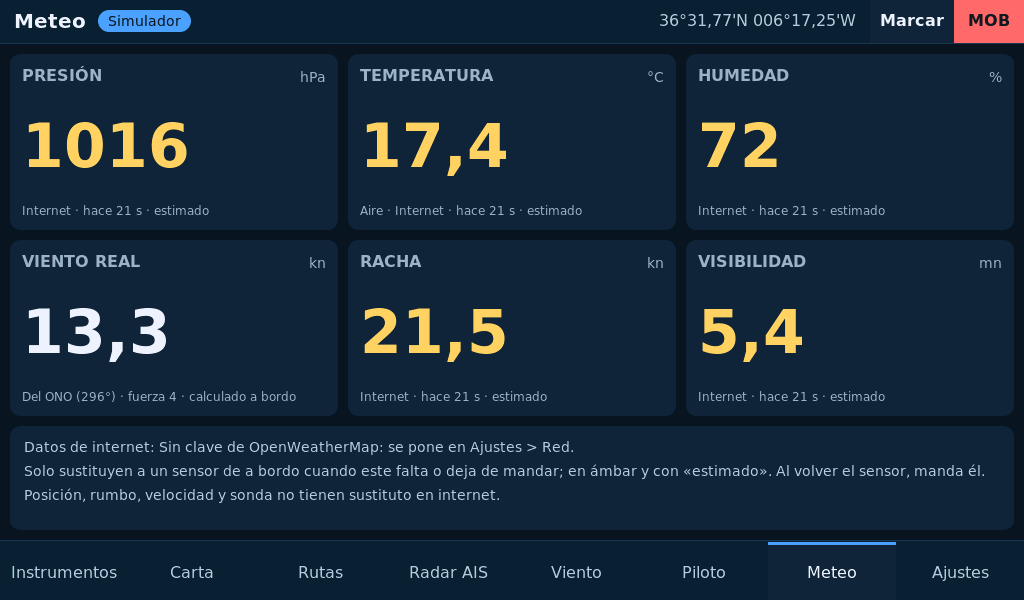
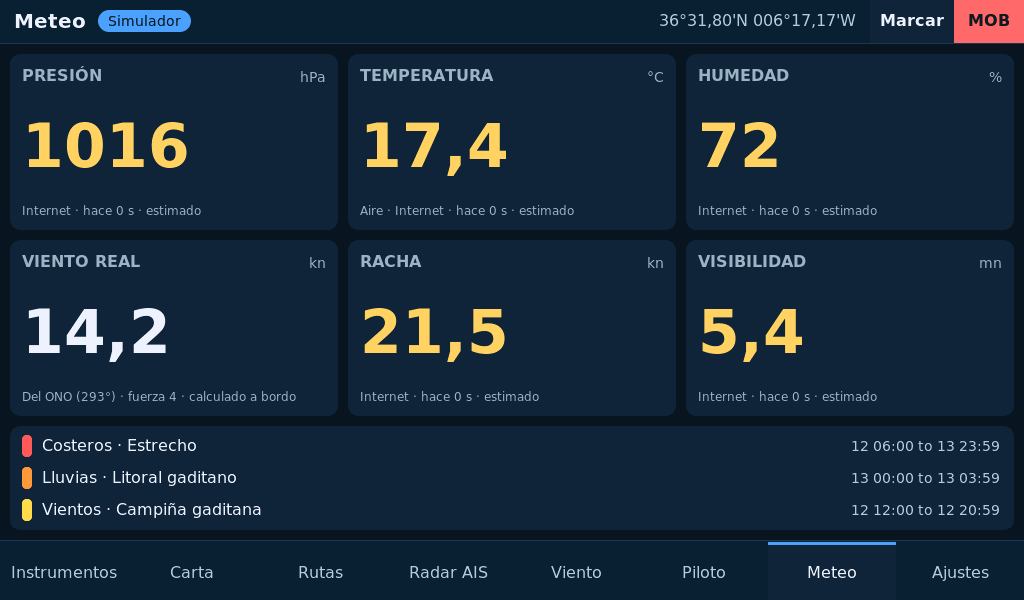
Documentación: avisos meteorológicos en manuales, guías, instalación, README e imágenes
Claude-Session: https://claude.ai/code/session_017B8KvKkzy64dRCMhaiQqdM

diff --git a/docs/USER_MANUAL_EN.md b/docs/USER_MANUAL_EN.md
@@ -191,6 +191,24 @@ Anything coming **from the internet** is shown in **amber** and labelled «estim
 station or model, not from your boat. The note at the bottom says whether the OpenWeatherMap request works and where
 the observation is from.
 
+### Weather warnings
+
+With official warnings in force for your area, the note at the bottom becomes their list (up to three, most severe
+first, with the level colour and the time they are in force). Tap one to see the whole warning.
+
+- **AEMET** (Spain): put your free AEMET OpenData key in Ajustes > Red. You get the warnings for the zone the boat is in
+  and those within 30 km.
+- **Meteoalarm** (rest of Europe), with no AEMET key: write the country and the names of your zones as Meteoalarm calls
+  them: «spain: Estrecho, Cádiz».
+
+The plotter checks them every 15 minutes.
+
+![Warning](img/aviso_meteo.png)
+
+When a new one comes in at the chosen level or above, the **WEATHER WARNING** window opens with a band in the level colour
+(yellow, orange or red): phenomenon, area, time in force, probability and the warning text. **ALL WARNINGS** goes to the
+Meteo tab; **CLOSE** closes it. Each warning is shown once.
+
 ## 9. Ajustes (Settings)
 
 ![Settings](img/ajustes.png)
@@ -212,7 +230,10 @@ and waypoints.
 ![Network](img/red.png)
 
 On the **Red** (Network) screen: the Wi-Fi and its password, the server type (off, NMEA 0183, gpsd or Signal K), its
-address and port, the UDP port, the OpenWeatherMap key and the tracker PIN. **Guardar y conectar** applies the changes.
+address and port, the UDP port, the OpenWeatherMap key, the tracker PIN and the weather warnings: the AEMET OpenData
+key, or the Meteoalarm country and zones, and the button for the level from which the window opens (**Desde amarillo**
+from yellow, **Desde naranja** from orange, **Solo rojo** red only, **Sin ventana** no window). **Guardar y conectar**
+applies the changes.
 
 ## 10. Alerts
 
@@ -228,6 +249,7 @@ An alert opens a window over any screen. Alert texts are in English, as in the A
 | **ANCHOR WATCH · NO GPS FIX** | Anchored and 1 min without a position | Same |
 | **SIGNAL K ALARM / EMERGENCY** | Notification from the Signal K server | Closes by itself when the server lowers its level |
 | **RS485 COMPARTIDO** (shared RS485) | The pilot output uses the port data is coming in on | Apagar salida (turn output off) · Seguir así (keep going) |
+| **WEATHER WARNING** | A new official weather warning for your area (section 8) | ALL WARNINGS · CLOSE. On-board alerts take its place |
 
 Collision and anchor alerts close by themselves when the danger is over.
 
@@ -257,7 +279,7 @@ The internet only stands in for weather: true wind, gust, pressure, temperature,
 - Alert sound.
 - Chart download over Wi-Fi and a fallback coastline.
 - Renaming waypoints and saving several named routes.
-- Tides, weather warnings, navigational warnings and forecast layers.
+- Tides, navigational warnings and forecast layers; weather warnings for the zones of the route and their map.
 - Autopilot controls.
 - English interface.
 

diff --git a/docs/INSTALACION.md b/docs/INSTALACION.md
@@ -136,6 +136,10 @@ Ajustes > **Red: WiFi, TCP y UDP**. Escribe la red y su clave, elige el servidor
 
 Solo hay **un** servidor TCP a la vez. El UDP funciona a la vez que el TCP.
 
+**Avisos meteorológicos**: en la cuarta fila, la clave de AEMET OpenData (gratuita, se pide en opendata.aemet.es con un
+correo) o, fuera de España, «país: zonas» de Meteoalarm; el botón de la derecha elige desde qué nivel salta la ventana.
+Necesitan WiFi con salida a internet; AEMET, además, la posición del barco.
+
 **El móvil como fuente**: activa el punto de acceso del móvil, enciende el servidor NMEA en la app APRS LoRa+ y, en el
 plotter, pon esa WiFi, «TCP: NMEA 0183», el **servidor vacío** y el puerto 10110. Con el servidor vacío el plotter se
 conecta al equipo que da la WiFi.
@@ -210,13 +214,14 @@ Todo se guarda y se recupera al encender, también un fondeo en vigilancia.
 | No conecta a la WiFi | Nombre y clave exactos (distingue mayúsculas). El estado sale arriba en la pantalla de red |
 | «El tracker no acepta el PIN» | Pon en Ajustes > Red el PIN de control del tracker. Si lo has cambiado, apaga y enciende el Bluetooth |
 | El tiempo de internet no llega | Clave de OpenWeatherMap, WiFi con salida a internet y posición válida. La pestaña Meteo dice el motivo |
+| No salen avisos meteorológicos | Clave de AEMET entera (empieza por «eyJ») y confirmada desde el correo de AEMET, o «país: zonas» bien escrito; con posición. Sin avisos en vigor para tu zona, no sale nada |
 
 ## 9. Lo que falta en esta versión
 
 - Sonido de las alertas (zumbador).
 - Descarga de cartas por WiFi; línea de costa de reserva.
 - Renombrar waypoints, varias rutas con nombre.
-- Mareas, avisos meteorológicos y radioavisos, capas de previsión.
+- Mareas y radioavisos, capas de previsión; avisos de las zonas de la ruta.
 - Mandos del piloto automático; emitir en la red NMEA 2000.
 - Lista de equipos Bluetooth y de redes WiFi para elegir.
 

diff --git a/docs/INSTALLATION_EN.md b/docs/INSTALLATION_EN.md
@@ -140,6 +140,10 @@ conectar** (Save and connect).
 
 Only **one** TCP server at a time. UDP works alongside TCP.
 
+**Weather warnings**: in the fourth row, the AEMET OpenData key (free, requested at opendata.aemet.es with an email
+address) or, outside Spain, Meteoalarm «country: zones»; the button on the right chooses the level from which the window
+opens. They need Wi-Fi with internet access; AEMET also needs the boat's position.
+
 **The phone as a source**: enable the phone's hotspot, turn on the NMEA server in the APRS LoRa+ app and, on the
 plotter, enter that Wi-Fi, «TCP: NMEA 0183», an **empty server** field and port 10110. With the server empty the
 plotter connects to the device providing the Wi-Fi.
@@ -214,13 +218,14 @@ Everything is saved and restored at power-up, including an active anchor watch.
 | Wi-Fi does not connect | Exact name and password (case-sensitive). The status is shown at the top of the network screen |
 | «El tracker no acepta el PIN» (the tracker rejects the PIN) | Enter the tracker's control PIN in Ajustes > Red. If you changed it, turn Bluetooth off and on |
 | Internet weather does not arrive | OpenWeatherMap key, Wi-Fi with internet access and a valid position. The Meteo tab gives the reason |
+| No weather warnings | The whole AEMET key (it starts with «eyJ»), confirmed from AEMET's email, or a correct «country: zones»; with a position. With no warnings in force for your area, nothing shows |
 
 ## 9. Not in this version
 
 - Alert sound (buzzer).
 - Chart download over Wi-Fi; fallback coastline.
 - Renaming waypoints, several named routes.
-- Tides, weather warnings and navigational warnings, forecast layers.
+- Tides and navigational warnings, forecast layers; warnings for the zones of the route.
 - Autopilot controls; transmitting on the NMEA 2000 network.
 - Lists of Bluetooth devices and Wi-Fi networks to choose from.
 - English interface.

diff --git a/docs/QUICK_GUIDE_EN.md b/docs/QUICK_GUIDE_EN.md
@@ -28,7 +28,7 @@ The on-screen texts are in Spanish; this guide gives each one in Spanish with it
 | Radar AIS | Targets around the boat, with collision risk |
 | Viento (Wind) | Apparent and true wind dial, and a 10-minute history |
 | Piloto (Pilot) | Course to steer, cross-track error and data for the autopilot |
-| Meteo (Weather) | Pressure, temperature, humidity, wind, gust and visibility |
+| Meteo (Weather) | Pressure, temperature, humidity, wind, gust and visibility; weather warnings for your area |
 | Ajustes (Settings) | Simulator, serial port, brightness, units, base map, NMEA 2000, network and Bluetooth |
 
 ## 3. Everyday tasks
@@ -61,6 +61,7 @@ They appear in a window over any screen:
 | ANCHOR WATCH · NO GPS FIX | Anchored and one minute without a position |
 | SIGNAL K ALARM / EMERGENCY | Notification from the Signal K server |
 | RS485 COMPARTIDO (shared RS485) | The pilot output uses the same port data is coming in on |
+| WEATHER WARNING | A new official weather warning for your area (AEMET or Meteoalarm) |
 
 **In this version alerts make no sound**: the buzzer is not implemented yet.
 
@@ -74,6 +75,7 @@ They appear in a window over any screen:
 | Phone with the APRS LoRa+ app | Ajustes > Red: the phone's Wi-Fi, «TCP: NMEA 0183», empty server, port 10110 |
 | APRS LoRa+ tracker or gateway | Ajustes > Bluetooth (the tracker PIN goes in Ajustes > Red) |
 | Internet weather | Ajustes > Red: OpenWeatherMap key |
+| Weather warnings | Ajustes > Red: AEMET OpenData key, or Meteoalarm «country: zones» |
 
 If a sensor stops sending, the plotter uses the next source that has that value. Internet data is shown in amber and
 labelled «estimado» (estimated).

diff --git a/README.md b/README.md
@@ -43,6 +43,8 @@ Versión 5.4.1, preliminar. El núcleo de cálculo (`lib/plotter_core`) no depen
 | `n2k` | NMEA 2000: PGN de navegación, viento, motor y AIS; mensajes de varias tramas |
 | `lights` | Alcance geográfico y luminoso, ritmos de luces, marcas IALA, radio de borneo |
 | `navwarn` | Radioavisos náuticos en vigor (XML del IHM) y posiciones dentro del texto |
+| `wxwarn` | Avisos meteorológicos: CAP de AEMET (con polígono) y Atom de Meteoalarm, corte por bloques de una descarga |
+| `gunzip` | Descompresión gzip propia (el .tar.gz de los avisos de AEMET) |
 | `sim` | Simulador: un barco navegando y sus tramas NMEA |
 | `route` | Seguimiento de ruta y paso de waypoint, registro de derrota y de sonda, sonido de los avisos |
 | `signalk` | Signal K: rutas y unidades, suscripción, avisos y envío de valores propios |

diff --git a/CHANGELOG.md b/CHANGELOG.md
@@ -4,7 +4,8 @@
 
 - **Avisos meteorológicos:** avisos oficiales de AEMET (con su clave de OpenData, por la posición del barco) o de
   Meteoalarm (por país y zonas): ventana emergente con el color del nivel, lista en la pestaña Meteo y ajustes en
-  Ajustes > Red. Sin probar contra los servidores.
+  Ajustes > Red (con el nivel desde el que salta la ventana). AEMET entrega un `.tar.gz`: se guarda en la PSRAM y se
+  descomprime en el plotter (`gunzip`, con CRC-32). Manuales, guías e imágenes al día. Sin probar contra los servidores.
 
 ## 5.4.1 — 2026-11-12 — primera versión (preliminar)
 
